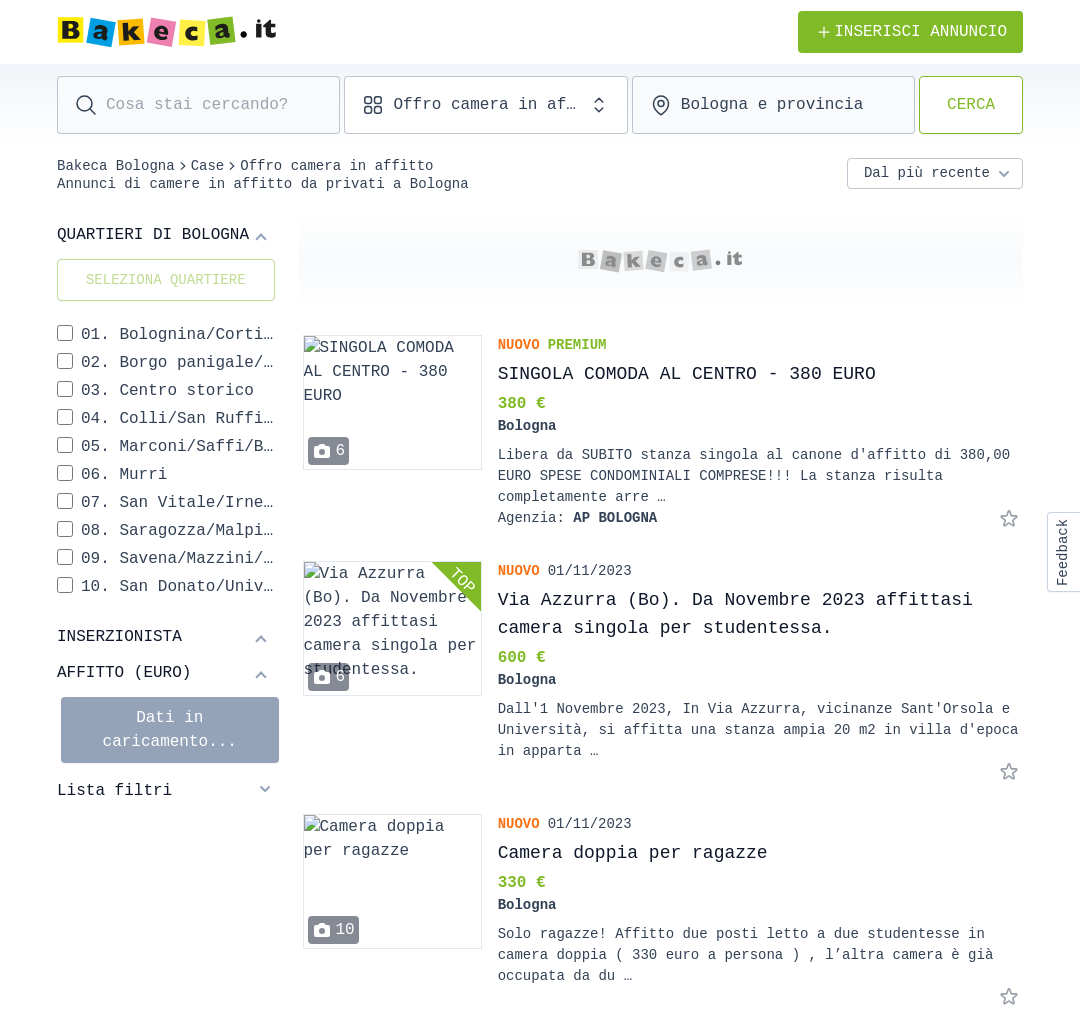
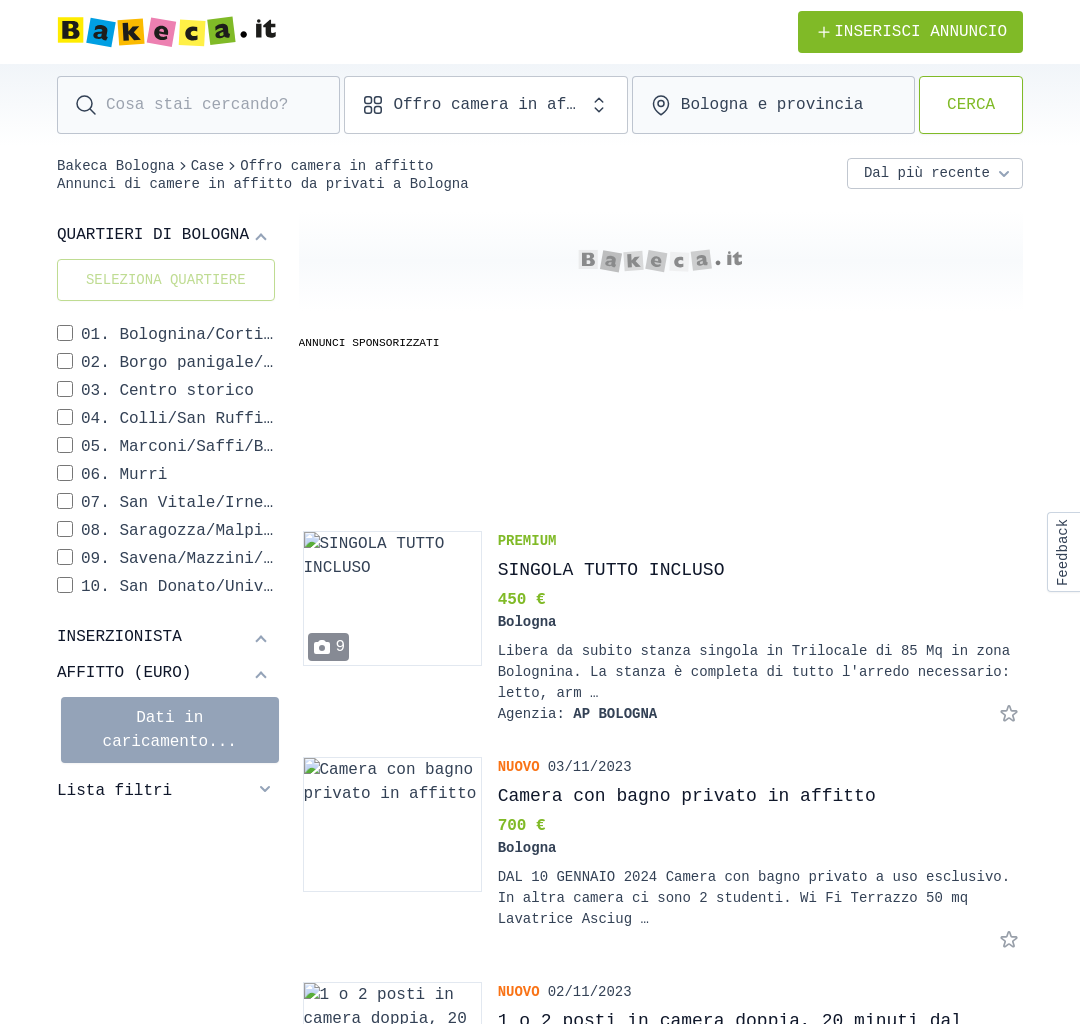
add adsense snippet

diff --git a/webapp/public/index.html b/webapp/public/index.html
@@ -134,6 +134,13 @@
         />
 
         <!-- Meta Tags Generated with https://metatags.io -->
+
+        <!-- AdSense -->
+        <script
+            async
+            src="https://pagead2.googlesyndication.com/pagead/js/adsbygoogle.js?client=ca-pub-1847057499025770"
+            crossorigin="anonymous"
+        ></script>
     </head>
     <body>
         <noscript>You need to enable JavaScript to run this app.</noscript>
